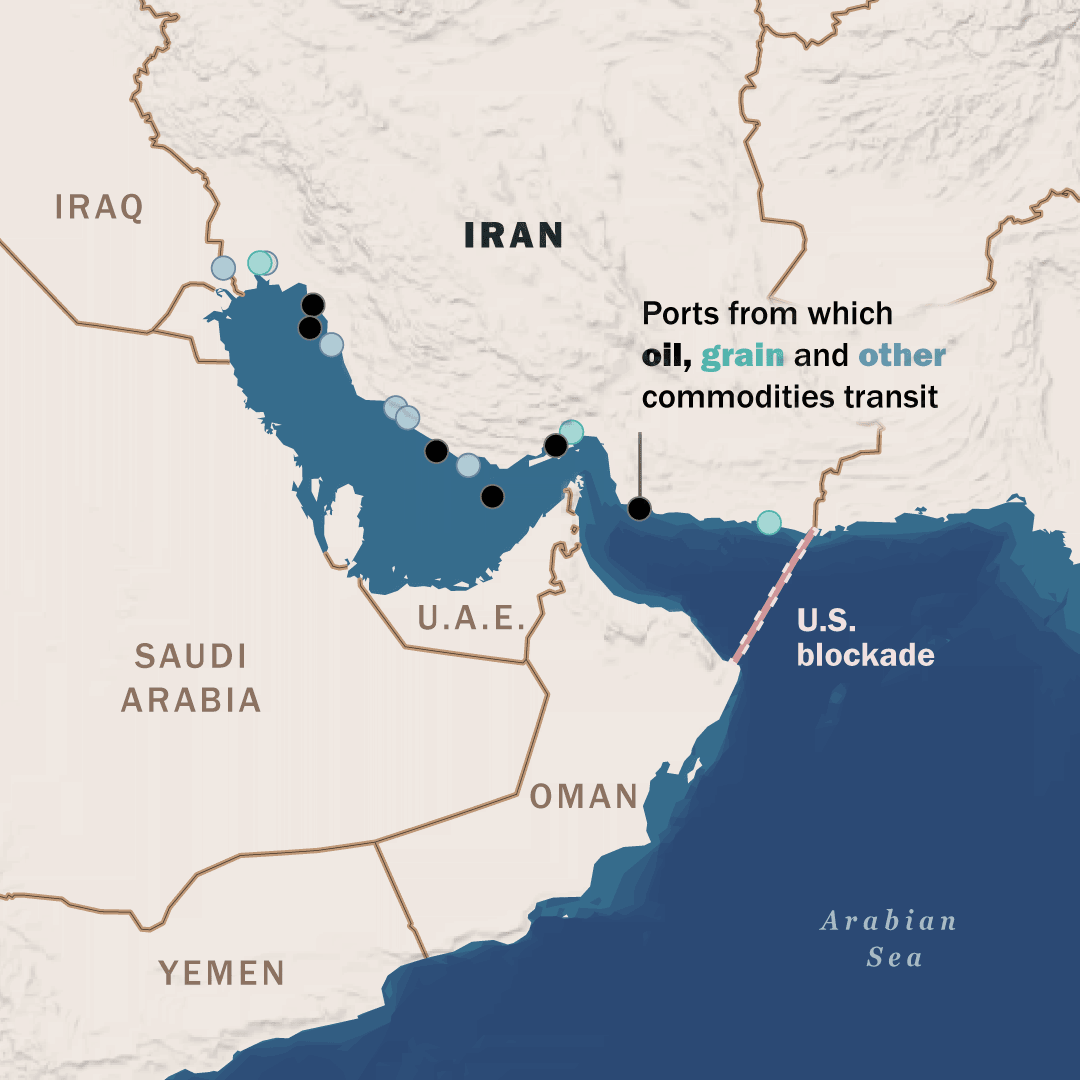
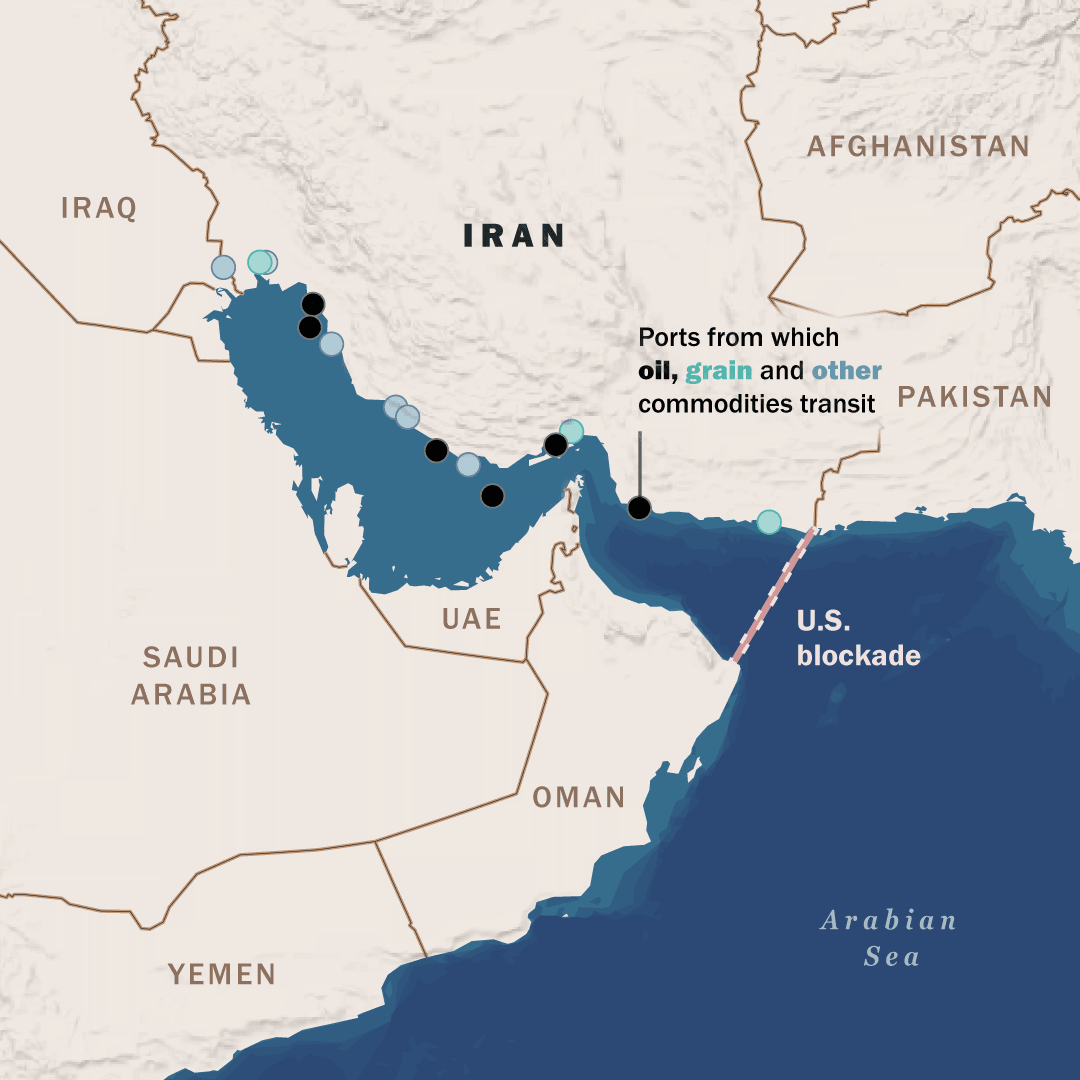
h1 fix, 7 sequence

diff --git a/styles.css b/styles.css
@@ -212,7 +212,7 @@ figure {
 
 .hero h1 {
   font-size: clamp(2.5rem, 8vw, 5rem);
-  margin: 0 3vw;
+  margin: 0 7vw;
   max-width: 34ch;
   color: #000;
   text-transform: none !important;